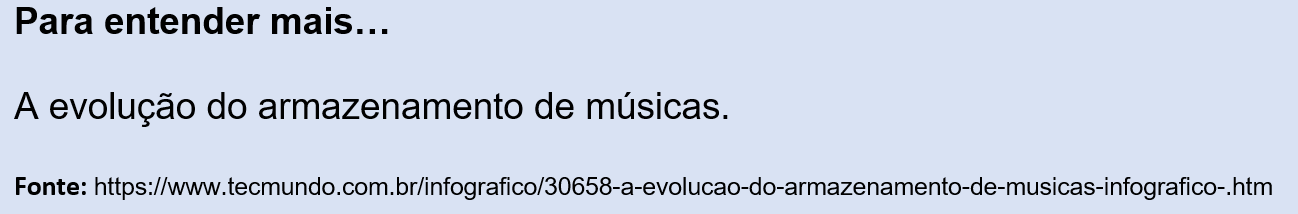
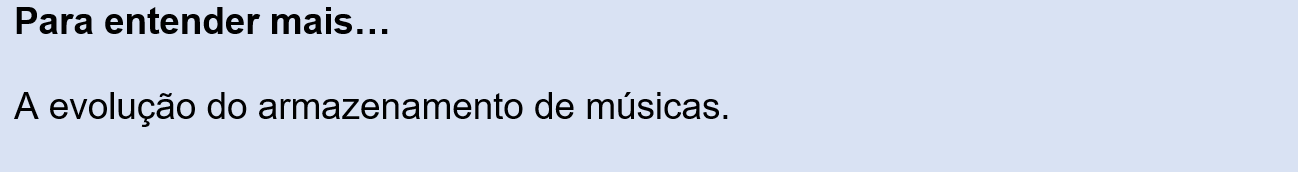
.

Changed region(s): [[0.0, 0.436, 0.5547, 0.7267], [0.0, 0.814, 0.9861, 0.9302], [0.0, 0.0291, 0.3082, 0.2035]]

diff --git a/capitulo3.html b/capitulo3.html
@@ -45,6 +45,14 @@
 					A forma como é confeccionado um calçado interfere nos movimentos da dança? <br>
 					O tipo de calçado usado pelos distintos povos têm relação com o tipo de dança apresentada? <br>
 
+
+				</p>
+
+				<br>
+
+				<p>
+					<b>Contextualizando:</b>
+					<br>
 					A dança é uma linguagem universal.  Um meio de expressão que, assim como a música, acompanha a humanidade desde os seus primórdios.  De maneira bem simples e objetiva, pode ser compreendida como a arte do movimento. É a expressão que mexe com o corpo, através de uma cadência de movimentos e ritmos, criando uma harmonia própria. 
 
 				</p>
@@ -68,7 +76,7 @@
 			</p>
 			<br>
 
-			<h2>Uma história visual da dança social em 25 movimentos”</h2>
+			<h2>"Uma história visual da dança social em 25 movimentos”</h2>
 		
 			<br>
 			<p>
@@ -117,8 +125,10 @@
 
 			<br>
 
-			<p><b>Acompanhe o vídeo que trata da origem da Capoeira no Brasil:</b></p>
-
+			<h3>
+			Para entender mais... <br>
+			Acompanhe o vídeo que trata da origem da Capoeira no Brasil:
+			</h3>	
 			<br>
 
 			<center>
@@ -130,6 +140,13 @@
 
 			<p>
 				Tendo um olhar específico para a cultura do Rio Grande do Sul, a expressão da dança está diretamente ligada aos grupos de dança tradicionalistas. Você inclusive, já deve ter visto uma apresentação artística das invernadas. Essas danças também tiveram influência das diversas culturas que colonizaram o nosso estado. No vídeo a seguir, podemos acompanhar a história do Chamamé, dança de origem indígena, que adaptaram à Polca. 
+			</p>
+			<br>
+			<center>
+				<a href="http://g1.globo.com/rs/rio-grande-do-sul/bom-dia-rio-grande/videos/v/dancas-tipicas-gauchas-conheca-o-chamame/4475940/">Clique e conheça o Chamamé</a>
+			</center>
+			<br>
+			<p>
 				O que muitas vezes passa despercebido é a fabricação de itens apropriados para os dançarinos. Analisando o universo das danças tradicionalistas gaúchas, podemos notar que toda a indumentária é hoje industrializada, seja de maneira mais artesanal (caso dos vestidos de prenda) até em grande escala (caso de chapéus, bombachas, camisas, sapatilhas, alpargatas e botas masculinas). E pensando nas danças gerais, todos os calçados e roupas apropriadas são fabricadas exclusivamente para a prática do balé, da dança de salão e até mesmo o tênis – que é mais adequado para a dança de rua.  <br>
 				Você já havia pensado sobre isso?
 			</p>
@@ -154,9 +171,14 @@
 					b)	(     ) balé<br>
 					c)	(     ) valsa<br>
 					d)	(     ) capoeira<br>
-					e)	(     ) chamamé<br><br>
+					e)	(     ) chamamé<br>
+					<i>Resolução: Alternativa D </i>
+					<br>
+					<br>
 
-					2) Você já assistiu à um espetáculo de dança? Se sim, quais foram as sensações que sentiu?  <br><br>
+					2) Você já assistiu à um espetáculo de dança? Se sim, quais foram as sensações que sentiu?  <br>
+					<i>Resolução: Resposta pessoal.</i>
+					<br><br>
 
 					3)  Do interior da Ópera de Paris, Degas retratou diversas cenas, como as da imagem abaixo. Usando movimentos, cores e pinceladas suaves, compôs suas telas, onde bailarinas com suas sapatilhas e seus tutus volumosos fazem exercícios na barra ou apresentam seus movimentos graciosos, enquanto o professor e o músico da aula avaliam seus desempenhos. <br>
 
@@ -174,7 +196,10 @@
 					b)	(    ) Sapateado<br>
 					c)	(    ) Chamamé<br>
 					d)	(    ) Dança contemporânea<br>
-					e)	(    ) Ballet clássico<br><br>
+					e)	(    ) Ballet clássico<br>
+					<i>Resolução: alternativa E</i>
+					
+					<br><br>
 
 					Na época do impressionismo, principalmente em Paris, o estilo de dança que predominava era o Ballet clássico. Ainda não existia o jazz, sapateado ou dança contemporânea.
 
@@ -186,7 +211,7 @@
 				<br>
 				<br>
 			
-				
+				<h2>O que aprendi?</h2>
 
 			<p>
 				A história da dança em distintos lugares revela o quanto uma determinada população teve através do corpo, formas de expressar o seu pensamento. Desenvolver um trabalho consciente com a prática da dança é estabelecer uma relação saudável com os outros e com o mundo pois com o corpo expressamos nossas ideias e também nossos sentimentos. 

diff --git a/capitulo5.html b/capitulo5.html
@@ -35,13 +35,15 @@
 		<!-- Main -->
 		<section id="main" class="wrapper">
 			<div class="inner">
-				<h1 class="major">Capítulo 5: Os sons e música no contexto da indústria petroquímica</h1>
+				<h1 class="major">Capítulo 5: Os sons e a música no contexto da indústria petroquímica</h1>
 				
 				
 
 				<h3><strong>Questão-problema:</strong></h3>
 				<p>	
-					Você consegue imaginar se não tivesse existido a indústria fonográfica? Se não houvesse, primeiramente, o disco de vinil e, posteriormente, o CD? Como as músicas teriam sido divulgadas? <br>
+					Você consegue imaginar se não tivesse existido a indústria fonográfica? Se não houvesse, primeiramente, o disco de vinil e, posteriormente, o CD? Como as músicas teriam sido divulgadas? <br><br>
+					
+					<b>Contextualizando</b><br>
 					Como você vem acompanhando em todo o nosso conteúdo até aqui, a música também é uma linguagem da Arte, inserindo-se em toda a sua história  e na evolução artística e cultural dos povos, em uma determinada época e região. 
 					Podemos por um momento, afirmar que a música é a linguagem artística mais apreciada pela população em geral. Afinal, consumimos música a todo instante e por muitas vezes não nos damos conta, seja ao acordar com o despertador, a caminho do trabalho pelo rádio, nos programas televisivos, etc. Quase todo mundo tem uma música preferida, não é?
 
@@ -156,6 +158,14 @@
 
 				<br>
 
+				<center>
+					<a href="https://www.tecmundo.com.br/infografico/30658-a-evolucao-do-armazenamento-de-musicas-infografico-.htm">Clique para conhecer a evolução do armazenamento de músicas</a>
+				</center>	
+
+				
+
+				<br>
+
 				<h3>
 					Como é produzido um disco de vinil? Qual a diferença entre o som de um vinil e de um CD?
 				</h3>
@@ -189,7 +199,7 @@
 
 				<br>
 
-				<span class="image fit"><img src="images/img49.png" alt="" /></span>
+				<span class="image fit"><img src="images/img50.png" alt="" /></span>
 
 				<br>
 
@@ -209,11 +219,17 @@
 				Os sons que escutamos no dia a dia são bastante diferentes uns dos outros. Independente de ser uma música, que tipos de sons nosso ouvido pode distinguir?  <br>
 				Mesmo em locais ditos silenciosos, podemos ouvir sons, pois na sociedade atual é praticamente impossível permanecermos em absoluto silêncio. Por exemplo, mesmo estando sozinho, na frente do computador, o som das teclas será escutado, ou até mesmo, o som da nossa respiração. vamos refletir um pouco sobre isso? <br><br>
 
-				1)Que som você está ouvindo agora? E a caminho do trabalho, que som ambiente você consegue ouvir? <br><br>
+				1)Que som você está ouvindo agora? E a caminho do trabalho, que som ambiente você consegue ouvir? <br>
+				<i>Resolução: resposta pessoal do aluno. </i>
+				
+				<br><br>
 				
 				2) Os instrumentos musicais classificam-se em duas categorias, corda e sopro. Essa afirmativa está: <br>
 				(     ) Errada<br>
-				(     ) Correta<br><br>
+				(     ) Correta <br>
+				<i>Resolução: os instrumentos musicais classificam-se em: percussão, corda e sopro. </i>
+				
+				<br><br>
 
 				3) Não é de hoje que a música é uma das formas de arte mais inspiradoras. As diferentes combinações de melodias e letras têm o poder de despertar em nós as mais variadas emoções, como alegria, tristeza, saudade, nostalgia, paixão, entre outras. Na déc. de 1870, surge a primeira invenção capaz de armazenar e reproduzir música. Esta invenção recebeu o nome de:<br> 
 				a) (    ) disco de vinil<br>
@@ -221,6 +237,8 @@
 				c) (     ) cilindro fonográfico<br>
 				d) (     ) gramofone<br>
 				e) (     ) streaming<br>
+				<i>Resolução: Alternativa C.   O cilindro fonográfico foi a primeira mídia que obteve sucesso na gravação e reprodução sonora. A tecnologia era usada no fonógrafo, sendo ambos os dispositivos inventados por Thomas Edison em 1877.</i>
+				<br>
 
 			</p>
 

diff --git a/capitulo4.html b/capitulo4.html
@@ -41,6 +41,7 @@
 
 				<h3><strong>Questão-problema:</strong></h3>
 				<p>Você já assistiu alguma peça de teatro? Já pensou sobre todo o processo de criação artística e industrialização de figurinos? <br> <br>
+					<b>Contextualizando</b> <br>
 					Nós vamos, com o vídeo a seguir, conhecer uma das mais famosas Companhias de Teatro do mundo: Teatro du Soleil. É uma das maiores companhias mundiais, que possui um 
 					complexo (de cenários, oficinas, palcos e salas de ensaio) instalado numa antiga fábrica de munições de Paris. A atriz brasileira Juliana Carneiro da Cunha, que faz 
 					parte da “troupe” desde 1990, revela os bastidores desse teatro. Você ficará admirado com a importância que vários trabalhadores têm para que um espetáculo aconteça.  
@@ -122,7 +123,8 @@
 					<iframe src="https://drive.google.com/file/d/1eZeJJJy7f7JrC_QCzYPG-ITmjFEqpW3L/preview" width="80%" height="400"></iframe>
 				</center>
 				<br>
-
+				<br>
+				<h3>Para entender mais</h3>
 				<p>
 					Segue vídeo de um grupo realizando um jogo dramático de Augusto Boal. Eles representam a engrenagem de uma máquina.
 				</p>
@@ -166,14 +168,16 @@
 
 					4.	CAMINHADA NO ESPAÇO – Foco: Sustentar a si próprio ou deixar que a substância do espaço o sustente, de acordo com a instrução. Instrução: Você atravessa o espaço e deixa que o espaço atravesse você!  Entre dentro de seu corpo e sinta as tensões! Sinta seus ombros! Sinta a coluna de cima a baixo! Sinta o seu interior! Observe! Anote! Você é seu único suporte! Você sustenta o seu rosto! Seus dedos dos pés! Seu esqueleto todo! Se você não se sustentasse, você se despedaçaria em mil partes! Agora mude! Caminhe pelo espaço e deixe que o espaço o sustente! O seu corpo entenderá! Perceba o que o seu corpo está sentindo! Coloque espaço onde estão seus olhos! Deixe que o espaço sustente seus olhos! Deixe que o espaço sustente seu rosto! Seus ombros! Agora mude! Agora é você quem se sustenta novamente! <br><br>
 
-					2) Na Grécia Antiga o teatro nasceu de rituais que compunham os festivais dedicados à ___________________________ , deus das festividades. <br><br>
+					2) Na Grécia Antiga o teatro nasceu de rituais que compunham os festivais dedicados à ___________________________ , deus das festividades. <br>
+				<i>	Resolução: Dionísio, é o deus grego do vinho. É considerado também o deus grego da natureza, da alegria e do teatro.</i>
+					<br><br>
 					3) Uma peça teatral é escrita ou adaptada por seu __________. É ele quem cria os personagens, e todos os outros elementos que fazem parte da linguagem teatral. A palavra que completa a frase é:<br>
 						a) (    ) cineasta<br>
 						b) (    ) telespectador<br>
 						c) (    ) dramaturgo<br>
 						d) (    ) ator<br>
 						e) (    ) adaptador<br>
-
+				<i>	Resolução: Alternativa C. Dramaturgo é uma expressão que tem origem no grego "dramatourgós", que significa autor de peças de teatro.</i>
 				</p>
 				<br>
 				<br>

diff --git a/capitulo2.html b/capitulo2.html
@@ -35,7 +35,7 @@
 		<!-- Main -->
 		<section id="main" class="wrapper">
 			<div class="inner">
-				<h1 class="major">Capítulo 2: A contribuição da indústria da contrução civil para o enriquecimento do patrimônio histórico de uma cidade</h1>
+				<h1 class="major">Capítulo 2: A contribuição da indústria da construção civil para o enriquecimento do patrimônio histórico de uma cidade</h1>
 				
 				
 				<h3><strong>Questão-problema:</strong></h3>
@@ -77,7 +77,17 @@
 					</h4>
 
 				<br>
-				
+					
+			<center>
+				<a href="https://cutt.ly/dflysmx">Tour virtual Fundação Iberê Camargo</a>
+			</center>	
+			
+
+				<br>
+
+				<p>E você, já pensou sobre as construções de uma cidade ou sobre as construções da sua cidade? Sobre os diferentes estilos arquitetônicos?</p>
+
+						
 				<span class="image fit"><img src="images/img21.png" alt="" /></span>
 				
 				<br>
@@ -144,11 +154,14 @@
 
 
 				<br>
+				
 				<p>
+					<b> Para entender mais...</b>
+					<br>
 					Para acompanhar de forma ilustrada a continuação da história da arquitetura e suas características, assista ao vídeo:
 				</p>
 
-
+				
 				<center>
 					<iframe width="80%" height="480" src="https://www.youtube.com/embed/tetdw4yFcY0" frameborder="0" allow="accelerometer; 
 					autoplay; encrypted-media; gyroscope; picture-in-picture" allowfullscreen></iframe>
@@ -156,6 +169,7 @@
 
 				<br>
 
+				<h3>Saiba mais aqui</h3>
 				<span class="image fit"><img src="images/img26.png" alt="" /></span>
 
 				<br>
@@ -258,14 +272,19 @@
 					b)	(   ) idade do bronze<br>
 					c)	(   ) idade dos metais<br>
 					d)	(   ) classismo<br>
-					e)	(   ) neolítico<br><br>
+					e)	(   ) neolítico<br>
+					<i>Resolução: Alternativa E </i>
+					<br><br><br>
 
-					No período do paleolítico, o ser humano ainda habitava as cavernas. Classicismo é nome dado às características do período Grego. <br><br>
+					No período do paleolítico, o ser humano ainda habitava as cavernas. Classicismo é nome dado às características do período Grego. <br>
 					2) A partir dos seus conhecimentos, elabore no espaço abaixo um pequeno desenho de como seria um templo da Grécia antiga. <br><br><br><br>
 
 
 
-
+					
+				</p>
+				<p>
+					<i><i>Resolução: o desenho deve sugerir monumentalidade em escala e a utilização de várias colunas.</i></i>
 				</p>
 					
 					<br>

diff --git a/capitulo1.html b/capitulo1.html
@@ -233,6 +233,8 @@
 
 			</p>
 
+			<p><i>Resolução: Alternativa D</i></p>
+
 			<br>
 			<p>
 			As esculturas barrocas no Brasil têm forte influência do rococó europeu. As obras sacras de Aleijadinho distinguem-se das demais por apresentar 
@@ -258,6 +260,7 @@
 				A Urna Cerimonial Marajoara possui a função de conter os restos mortais de um ser humano, tendo, portanto, um objetivo prático na sociedade em que foi produzida.
 
 			</p>
+			<p><i>Resolução: Alternativa B</i></p>
 
 			<p>
 				3) Veja a imagem de uma das esculturas pré-históricas mais famosas, a Vênus de Willendorf. 
@@ -281,6 +284,8 @@
 			Outros acreditam que ela poderia também ter sido usada como amuleto.
 
 			</p>
+
+			<p><i>Resolução: Alternativa C</i></p>
 
 			<h3>Para entender mais</h3>
 			<br>

diff --git a/assets/css/main.css b/assets/css/main.css
@@ -274,7 +274,7 @@ a {
 	-webkit-transition: color 0.2s ease, border-bottom-color 0.2s ease;
 	-ms-transition: color 0.2s ease, border-bottom-color 0.2s ease;
 	transition: color 0.2s ease, border-bottom-color 0.2s ease;
-	border-bottom: dotted 1px rgba(255, 255, 255, 0.35);
+	border-bottom: dotted 1px rgb(255, 255, 255);
 	color: inherit;
 	text-decoration: none;
 }
